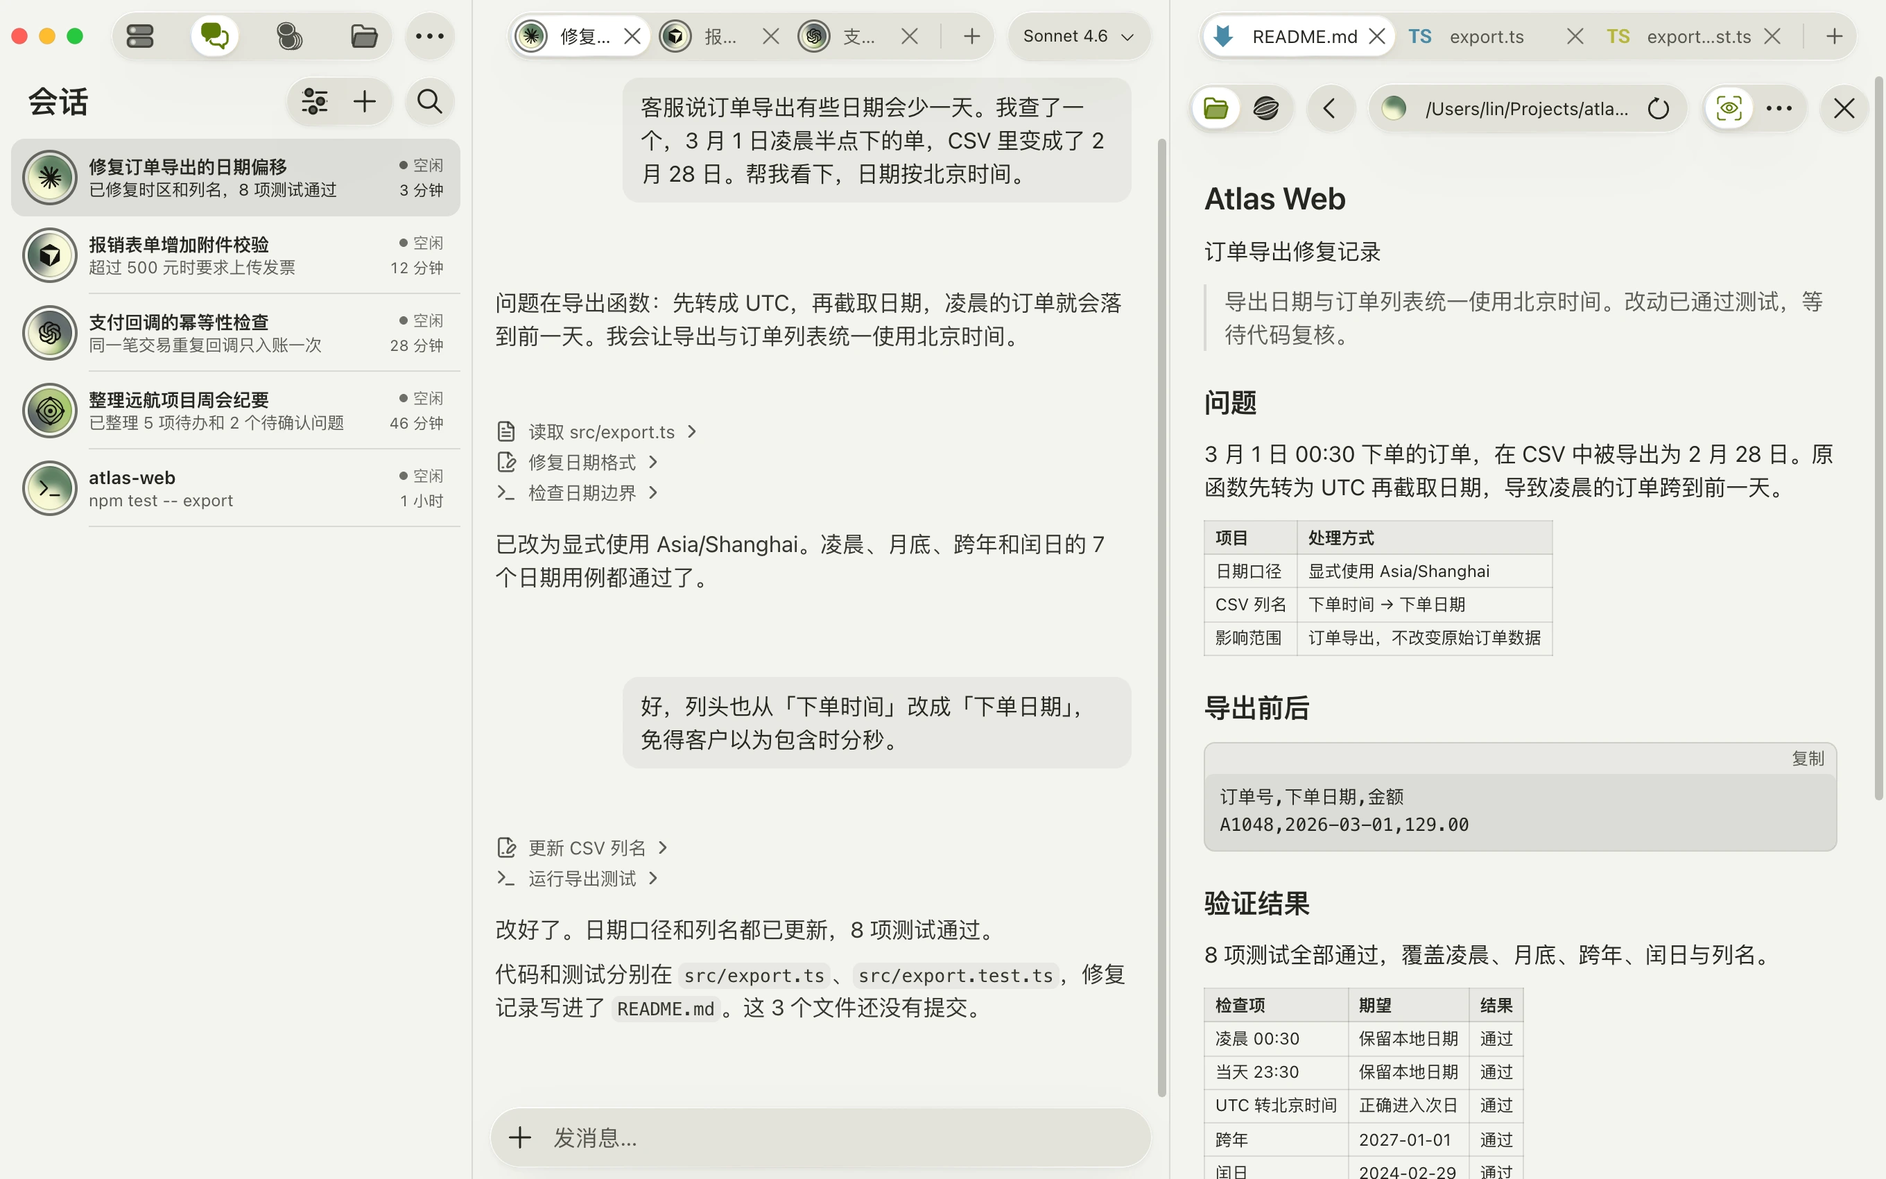
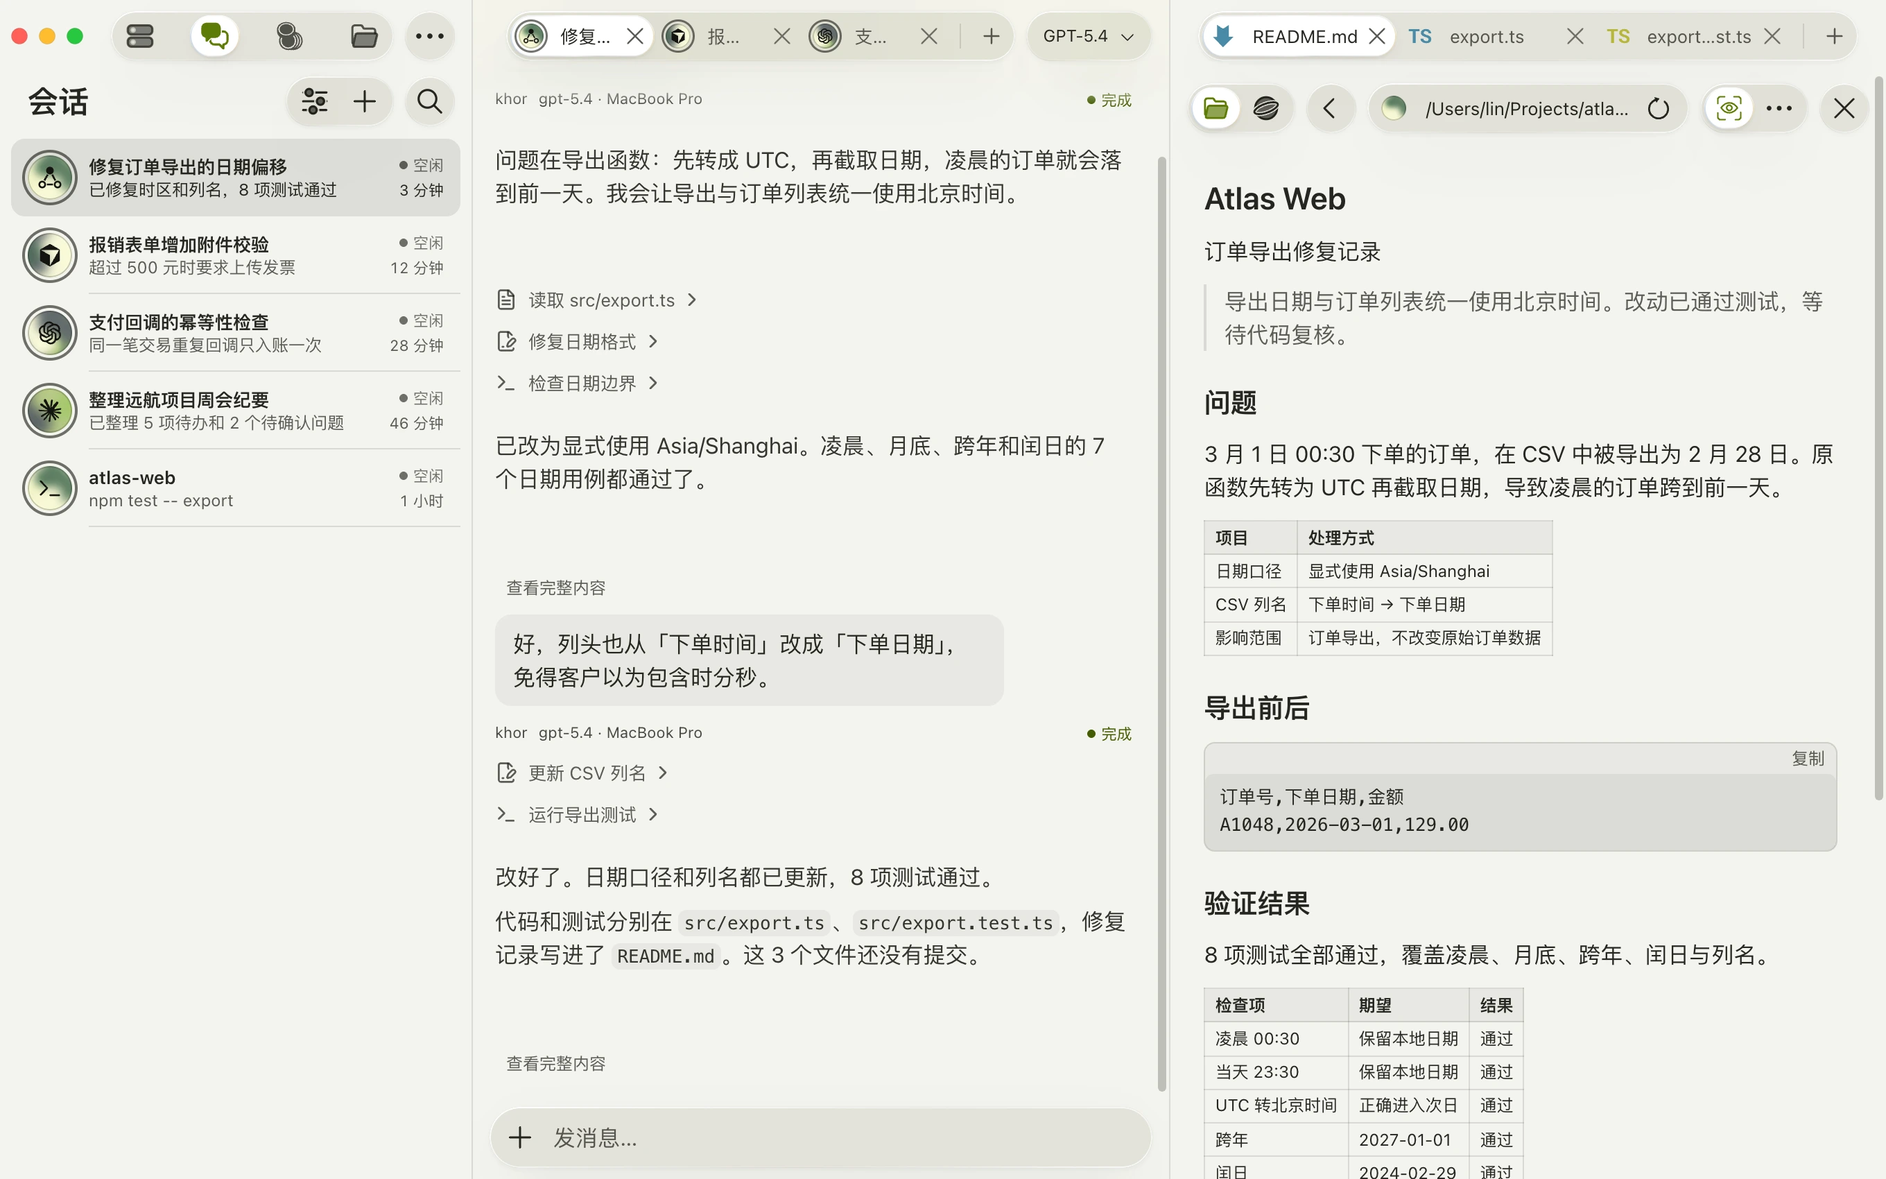
fix(site): show built-in Khor chat and sharpen scaled navigation

diff --git a/apps/gui/dev/site/fixture.ts b/apps/gui/dev/site/fixture.ts
@@ -11,6 +11,8 @@ import type {DirRow} from '../../src/gen/bindings/DirRow';
 import type {SessionRow} from '../../src/gen/bindings/SessionRow';
 import type {WorkspaceRow} from '../../src/gen/bindings/WorkspaceRow';
 import type {AccountRing} from '../../src/gen/bindings/AccountRing';
+import type {ChatMsgRow} from '../../src/gen/bindings/ChatMsgRow';
+import type {KhorAgentView} from '../../src/gen/bindings/KhorAgentView';
 
 export function createSiteFixture(origin:string) {
   const base=createLabFixture(true,{...scenario,reply:`Let's try Khor, [download it here.](${origin}/download/)`,origin,settings:true,items:3,machines:machines.length});
@@ -33,6 +35,29 @@ export function createSiteFixture(origin:string) {
       }},
     };
   });
+  // The first session is the App's own Khor conversation (MachineChat),
+  // backed by durable command receipts, rather than an ACP/Claude chat.
+  const model='gpt-5.4';
+  const agentView=(data:unknown=null):KhorAgentView=>({
+    config:{home:devices[0].id,account:'site-openai',model,options:{thought_level:'medium',auto_compaction:true}},
+    accounts:[{id:'site-openai',name:'OpenAI API',home:devices[0].id,home_name:devices[0].name,provider:'openai',default_model:model,configured:true,base_url:null,auth_type:'api_key'}],
+    run:null,data,
+  });
+  const messages:ChatMsgRow[]=[];
+  const receipt=(line:string,time:number):ChatMsgRow=>{
+    const id='site-khor-'+(messages.length+1);
+    return {id,at_ms:time,from:devices[0].name,from_me:true,text:null,files:null,unknown:null,retracted:false,edited:false,
+      step:null,moved:0,landed:[],why:null,got:null,of:null,via:null,to:[],note:null,pushed:false,
+      command:{id,line,owner:devices[0].id,owner_name:devices[0].name,status:'done',started_at_ms:time,ended_at_ms:time+1200,
+        stdout:'',stderr:'',data_json:null,session:null,error:null,agent:{model,approval:null,updated_at_ms:time+1200,updates:[],updates_truncated:false}}};
+  };
+  for(const frame of scenario.samples[0]){
+    const update=(frame as {update?:{update?:{sessionUpdate:string;content?:{text?:string}}}}).update?.update;
+    if(!update)continue;
+    if(update.sessionUpdate==='user_message_chunk')messages.push(receipt(update.content?.text??'',at-360000+messages.length*180000));
+    else messages.at(-1)?.command?.agent?.updates.push(JSON.stringify(update));
+  }
+  const initialMessages=messages.length;
   const owner=(name:unknown)=>devices.find(row=>row.name===name||row.id===name)??devices[0];
   const pathOf=(body:Record<string,any>)=>String(body.path??body.dir??'').replace(/\\/g,'/').replace(/\/$/,'');
   const sourceProject=(body:Record<string,any>)=>{
@@ -66,7 +91,7 @@ export function createSiteFixture(origin:string) {
       newest:project.branch?null:{path:'远航项目周会.md',at_ms:at-2760000,added:false}};
   });
   const quota=(base.request('quota_board') as AccountRing[]).map((account,index)=>{
-    const home=devices[[0,1,0,2,3,2][index]],names=['Claude Max','ChatGPT Pro','DeepSeek','OpenRouter','团队 API','OpenAI API'];
+    const home=devices[[0,1,0,2,3,0][index]],names=['Claude Max','ChatGPT Pro','DeepSeek','OpenRouter','团队 API','OpenAI API'];
     const short=index===0?36:48,long=index===0?28:54,remaining=[0,0,128.64,56.78,72.5,35.4][index];
     const limit=index===3?200:index===4?300:null,spent=limit===null?null:limit-remaining;
     return {...account,home_name:home.name,mine:home.me,age_ms:0,strain:null,pinned:index===0,budget:limit,
@@ -94,11 +119,24 @@ export function createSiteFixture(origin:string) {
       case 'devices':return structuredClone(devices);
       case 'sessions':{
         const rows=base.request(command,body) as SessionRow[];
-        return rows.filter(row=>tasks.some(task=>task.id===row.id)).map(row=>{
-          const task=tasks.find(task=>task.id===row.id)!,home=devices[task.machine];
-          return {...row,title:task.title,last:task.preview,home:home.name,execution_home:home.id,observation_owner:home.id,face:home.face,place:task.root,
+        return tasks.map((task,index)=>{
+          const row=rows.find(row=>row.id===task.id)!,home=devices[task.machine];
+          return {...row,title:task.title,category:task.category,pinned:index===0,last:task.id===tasks[0].id&&messages.length>initialMessages?"Let's try Khor, download it here.":task.preview,home:home.name,execution_home:home.id,observation_owner:home.id,face:home.face,place:task.root,
             at_ms:at-task.minutes*60000,unread:0,source:null,stale:false,group:'',can_control:task.category!=='shell'};
         });
+      }
+      case 'machine_log':return {messages:structuredClone(messages),broken:0};
+      case 'khor_agent':{
+        if(body.action==='prompt'){
+          const message=receipt(String(body.payload?.text??''),Date.now());
+          message.command!.agent!.updates.push(JSON.stringify({sessionUpdate:'agent_message_chunk',content:{type:'text',text:`Let's try Khor, [download it here.](${origin}/download/)`}}));
+          messages.push(message);
+        }
+        if(body.action==='manage'){
+          if(body.payload?.operation==='session_settings')return agentView({job:'site-settings',status:'running'});
+          if(body.payload?.operation==='poll')return agentView({status:'done',result:{model,configOptions:[{id:'model',name:'模型',category:'model',type:'select',currentValue:model,options:[{value:model,name:'GPT-5.4'}]}]}});
+        }
+        return agentView();
       }
       case 'visit':return null;
       case 'load':return load(body);

diff --git a/apps/gui/dev/site/bootstrap.ts b/apps/gui/dev/site/bootstrap.ts
@@ -1,6 +1,6 @@
 import {createSiteFixture} from './fixture';
 import {configureLabBackend} from '../lab/backend-context';
-import {scenes,sessionIds,type Scene} from '../lab/scenes';
+import {scenes,type Scene} from '../lab/scenes';
 import {projects,tasks} from './world';
 import {constrainDemoInteractions} from './interaction';
 import {setSessionSide,setSideWidth} from '../../src/hooks/use-session-side';
@@ -16,12 +16,12 @@ const requested = query.get('scene') ?? 'gui';
 const hero=query.get('hero')==='1';
 if (!(requested in scenes)) throw new Error('Unknown demo scene');
 const scene = scenes[requested as Scene];
-const active = scene.session ?? sessionIds[0];
-const identity = `site-v5/${hero?'hero':requested}`;
+const active = hero||requested==='gui'||requested==='content'?tasks[0].id:scene.session??tasks[0].id;
+const identity = `site-v6/${hero?'hero':requested}`;
 if(localStorage.getItem('khor.site.identity')!==identity){
   localStorage.setItem('khor.site.identity',identity);
   localStorage.setItem('khor.lang','zh');
-  localStorage.setItem('khor.sessions.tabs',JSON.stringify({tabs:[active,...sessionIds.filter(id=>id!==active)].slice(0,3),active}));
+  localStorage.setItem('khor.sessions.tabs',JSON.stringify({tabs:[active,...tasks.map(task=>task.id).filter(id=>id!==active)].slice(0,3),active}));
   const landing=['workspace','workspaces'].includes(requested)?'workspaces':requested==='devices'?'devices':'sessions';
   localStorage.setItem('khor.place',JSON.stringify({landing,screen:'list'}));
 }
@@ -82,7 +82,7 @@ window.fetch=async(input,init)=>{
 window.addEventListener('pagehide',()=>fixture.dispose(),{once:true});
 const enter=()=>{
   if(scene.row){
-    const row=[...document.querySelectorAll<HTMLElement>('[data-list] [data-row-open]')].find(el=>el.closest('[data-row]')?.getAttribute('data-row')===scene.session);
+    const row=[...document.querySelectorAll<HTMLElement>('[data-list] [data-row-open]')].find(el=>el.closest('[data-row]')?.getAttribute('data-row')===active);
     if(row){row.click();if(hero)setSessionSide(active,{open:true,seat:'workspace'});observer.disconnect();}
   }else if(requested==='workspace'){
     const file=document.querySelector<HTMLElement>('[data-file-path="'+projects[0].root+'/README.md"]');

diff --git a/apps/gui/dev/site/scenario.ts b/apps/gui/dev/site/scenario.ts
@@ -2,7 +2,7 @@ import {exportAfter,exportBefore,machines,meeting,roots,tasks,terminalScreen} fr
 
 const update = (sessionUpdate: string, values: Record<string, unknown>) => ({kind:'note',update:{update:{sessionUpdate,...values}}});
 const text = (type: string, value: string) => update(type,{content:{type:'text',text:value}});
-const boot = {kind:'agent',name:'Claude',replays:true,needs_login:false,images:false,embeds:false,lists:false};
+const boot = {kind:'agent',name:'Khor',replays:true,needs_login:false,images:false,embeds:false,lists:false};
 const user=(value:string)=>text('user_message_chunk',value);
 const agent=(value:string)=>text('agent_message_chunk',value);
 const turn={kind:'turn',stop:'EndTurn'};
@@ -48,7 +48,7 @@ export const scenario = {
       tool('payment-check','检查重复与并发回调','npm test -- payment','PASS payment callbacks\nnormal payment: 1 record\nreplayed payment: 1 record\n8 concurrent callbacks: 1 record\ninvalid signature: rejected'),
       agent('重复通知会返回成功，但不会再次入账。8 个并发回调最终也只保留 1 条记录。签名校验失败仍返回 401，没有绕过原来的校验。\n\n改动和检查结果在 `src/payment.ts`、`prisma/schema.prisma` 和 `docs/回调检查.md`。'),
     ],
-    [{...boot,name:'Khor'},
+    [{...boot,name:'Claude'},
       user('帮我把刚才远航的周会记录整理一下：首批 3 个部门，反馈 18 条，处理了 14 条。下周二加 2 个部门试用。林晨发名单模板和培训邀请，陈蕾补权限说明，小周确认导出日期，赵明收剩下的问题。审批人和培训时间还没确认。'),
       agent('已整理到「远航项目周会.md」，并把你负责的事项放进「本周待办.md」。\n\n'+meeting.replace('# 远航项目周会纪要\n\n','')),turn,
       user('名单模板今天 16 点发，培训邀请等时间定了再发。两件没确认的事给我单独留着。'),

diff --git a/apps/gui/dev/site/world.ts b/apps/gui/dev/site/world.ts
@@ -12,10 +12,10 @@ export const machines=[
 
 export const roots={web:'/Users/lin/Projects/atlas-web',api:'/home/lin/atlas-api',office:'/Users/lin/Documents/工作',expense:'C:/Users/Lin/Projects/expense-portal'};
 export const tasks=[
-  {id:'gui/ai-elements-review',title:'修复订单导出的日期偏移',category:'claude',machine:0,root:roots.web,preview:'已修复时区和列名，8 项测试通过',minutes:3},
+  {id:'wide/all',title:'修复订单导出的日期偏移',category:'khor',machine:0,root:roots.web,preview:'已修复时区和列名，8 项测试通过',minutes:3},
   {id:'gui/ai-elements-plan',title:'报销表单增加附件校验',category:'cursor',machine:3,root:roots.expense,preview:'超过 500 元时要求上传发票',minutes:12},
   {id:'gui/ai-elements-stream',title:'支付回调的幂等性检查',category:'codex',machine:1,root:roots.api,preview:'同一笔交易重复回调只入账一次',minutes:28},
-  {id:'gui/codex-review',title:'整理远航项目周会纪要',category:'khor',machine:2,root:roots.office,preview:'已整理 5 项待办和 2 个待确认问题',minutes:46},
+  {id:'gui/codex-review',title:'整理远航项目周会纪要',category:'claude',machine:2,root:roots.office,preview:'已整理 5 项待办和 2 个待确认问题',minutes:46},
   {id:'shell/layout-lab',title:'atlas-web',category:'shell',machine:0,root:roots.web,preview:'npm test -- export',minutes:65},
 ] as const;
 

diff --git a/apps/site/src/styles/story.css b/apps/site/src/styles/story.css
@@ -38,7 +38,9 @@ html { scroll-behavior: smooth; scroll-padding-top: calc(var(--pane-head) + var(
 .desktop-preview { position:relative; width:100%; aspect-ratio:8/5; overflow:hidden; background:var(--canvas); }
 .desktop-poster,.desktop-poster img { width:100%; height:100%; display:block; pointer-events:none; }
 .desktop-poster img { object-fit:cover; }
-.desktop-stage { position:absolute; inset:0 auto auto 0; width:calc(var(--list-w)*4); aspect-ratio:8/5; transform:scale(var(--desktop-scale,0)); transform-origin:top left; opacity:0; pointer-events:none; }
+/* Scale during layout so the iframe's glass/SVG layers are rasterized at
+   their display size, rather than downsampling a composited texture. */
+.desktop-stage { position:absolute; inset:0 auto auto 0; width:calc(var(--list-w)*4); aspect-ratio:8/5; zoom:var(--desktop-scale,1); opacity:0; pointer-events:none; }
 .desktop-stage iframe { width:100%; height:100%; display:block; border:0; }
 .desktop-preview[data-ready] .desktop-stage { opacity:1; pointer-events:auto; }
 .desktop-preview[data-ready] .desktop-poster { visibility:hidden; }

diff --git a/apps/gui/dev/site/interaction.ts b/apps/gui/dev/site/interaction.ts
@@ -14,6 +14,7 @@ const unavailable=[
   '[data-file-refresh]','[data-file-reread]','[data-file-save]','[data-tab-act]',
   '[data-workspace-view]','[data-content-commit-location]',
   '[data-link]',
+  '[data-khor-agent-turn] button','[data-khor-agent-settings]',
 ].join(',');
 
 export function constrainDemoInteractions() {

diff --git a/apps/site/README.md b/apps/site/README.md
@@ -22,10 +22,10 @@ frontend artifact 的 gen（Release run 42824017790，产品 GUI 源码与当前
 - `src/components/Mandala.astro` 读取完整的 `mandala-glass.svg` 和既有 session 字形；`icon-story.ts` 在原图层上控制演化，不替换成另一幅图。
 - `src/components/ProductHero.astro` 是左文右 GUI 的产品首屏，只展示 Desktop，外层带 macOS 圆角窗口边框。红黄绿按钮与 App 的导航图标、右侧标签共用原有第一行，不另加标题栏；仅网站演示在原有窗口控制留白处绘制按钮，不启用原生后端。完整 App 布局包括会话列表、对话与项目文件；首图加载后接管为可操作的同源 iframe，不连接 Lab 服务或真实设备。没有「打开体验」入口。
 - 示例数据包含 macOS、Windows、Linux、iOS、Android 五种系统的六台设备，Claude、Cursor、Codex、Khor、Shell 五种会话类型；全部是浏览器内的合成连接状态。会话字形沿用生产 App 的类型标记。
-- 演示范围固定：机器、会话、额度、工作区列表仅第一项可点；会话、侧栏与工作区各显示三个标签，只保留当前标签可用。「…」和新增、编辑等复杂操作不开放。不可点击项保留正常颜色与不透明度，不做灰化。主会话继续展示 Khor GUI，不切换为 Claude Code TUI。
+- 演示范围固定：机器、会话、额度、工作区列表仅第一项可点；会话、侧栏与工作区各显示三个标签，只保留当前标签可用。「…」和新增、编辑等复杂操作不开放。不可点击项保留正常颜色与不透明度，不做灰化。主会话是 `wide/all`，使用真实 `MachineChat` / `KhorAgentResult` 组件及本地生成的命令回执，展示 Khor 内置对话；Claude、Cursor、Codex、Shell 仅作其他会话列表项。
 - `apps/gui/dev/site/world.ts` 是设备、任务、项目和文件的共同数据源；`fixture.ts` 补齐第一台机器的仪表、历史趋势、进程及额度读数。列表保留真实日常任务和六个普通账户名称，不加演示说明。右侧与工作区默认展示同一份包含表格、代码和清单的 Markdown 修复记录；网站专用 FileView alias 复用生产渲染器，仅调整 Markdown 的默认阅读姿态。
 - `src/assets/product/desktop.webp` 与 `desktop-dark.webp` 来自本地 `/experience/app/index.html?scene=content&hero=1`，Chrome 1360×850、2× 像素密度、WebP quality 92，分别在浏览器浅色和深色偏好下截图。App 或 `apps/gui/dev/site/scenario.ts` 更新后重新截图。首图与可操作 GUI 均跟随浏览器明暗偏好；GUI 使用生产 App 的 auto 主题监听，实时切换不重载会话。所有任务与文件均为浏览器内的演示数据；发送消息固定回复 “Let's try Khor, download it here.”，链接进入同一套下载推荐。
-- `src/scripts/product.ts` 保持完整桌面布局并按展示宽度缩放；`src/scripts/download.ts` 根据平台与可用架构信息推荐已有的发行包。macOS 的旧 UA 不用于猜测芯片，信息不足时进入平台选择页；未提供安装包的平台展示所有选项。
+- `src/scripts/product.ts` 保持完整桌面布局并按展示宽度缩放；使用 CSS zoom 参与布局，避免 transform 对整张 iframe 合成贴图缩小，让玻璃导航与 SVG 在实际显示尺寸绘制。`src/scripts/download.ts` 根据平台与可用架构信息推荐已有的发行包。macOS 的旧 UA 不用于猜测芯片，信息不足时进入平台选择页；未提供安装包的平台展示所有选项。
 - 演示在 App 挂载后交出首图，包括从设备、设置等非聊天页恢复的入口；不以聊天输入框是否存在作为可交互条件。顶部导航直接使用生产 `LandingStrip` 及其选中态，不在官网另画高亮。
 - `src/scripts/story.ts` 在产品首屏后按滚动位置连续演化图标，停止滚动即停在当前姿态。One mind 时外珠归位缩小，中心珠和内圆保持最终绿色与几何；How about 画出外环双细边与菱形轮廓，外珠仍灰；Meet 的左上扫光恢复原始材质与外珠绿色。
 - 减少动态效果模式按当前章节直接展示静态姿态，图标故事仍从四颗灰珠开始。产品首屏、功能、资源体验与下载均可直接访问。

diff --git a/docs/handoff/site-story-20261111.md b/docs/handoff/site-story-20261111.md
@@ -20,6 +20,8 @@
 
 ## 本轮实现与验证
 
+- 2026-11-12 用户进一步纠正「展示 Khor GUI，而不是 Claude」：此前首项虽在 Khor App 外壳里，实际仍为 Claude ACP 会话。已将首项改为 `wide/all` 内置 Khor，会话用真实 `MachineChat`、`KhorHeader` 和 `KhorAgentResult` 渲染本地命令回执，模型为 GPT-5.4；其他四项保留 Cursor、Codex、Claude、Shell 类型。三标签、右侧 Markdown、固定下载回复与不灰化的限制继续保持，首图同步更新。
+- 导航清晰度修订：移除整个 iframe 外层的 transform scale，改为 CSS zoom 参与布局，避免玻璃与 SVG 图层先合成后缩小。Chrome 已对比静止、按下、松开三态；实际鼠标按屏幕坐标切到机器页再返回成功，Khor 内置会话有两轮记录，发送后得到固定下载回复，页面错误为空。证据 `/Volumes/disk0/Khor/evidence/site-story-20261112/khor-gui`；没有扩大浏览器测试矩阵。
 - 2026-11-12 最新范围：保留真实 Khor GUI，用户已撤回 Claude Code TUI 要求。机器、会话、额度和工作区各只开放第一项；会话、资源侧栏和工作区显示三个标签，只保留当前选中项可用；「…」及复杂操作不开放。不可点项保持正常颜色和不透明度，不做灰化。主会话仍可发送消息并获得固定下载回复。
 - 网站数据收拢为 `world.ts` 的有限自洽世界，列表、对话、项目路径、文件内容与 Git 修改数引用同一来源。主任务为订单导出日期与列名修复，三个未提交文件、8 项示例测试结果与 Markdown 记录一致；其余列表展示报销校验、支付回调、周会纪要等普通任务。第一台 MacBook Pro 补齐 CPU/GPU/内存/磁盘仪表、日趋势和进程；额度扩至六个正常账户名。右侧和首个工作区直接展示包含表格、代码、清单的富 Markdown；网站 FileView alias 仅改变默认阅读姿态，生产 App 源码不改。
 - Chrome 聚焦检查已确认四类列表仅第一项可点、三标签固定当前、所有不可点项 opacity=1、首个工作区的 Markdown 与固定下载回复正常，页面错误为空。演示类型检查、演示打包与 Astro 静态构建通过，首图按新场景更新深浅两张 WebP（合计约 508KB）。证据 `/Volumes/disk0/Khor/evidence/site-story-20261112/coherent-demo/focused.json` 及同目录截图；未扩展 WebKit 或原生验证。
